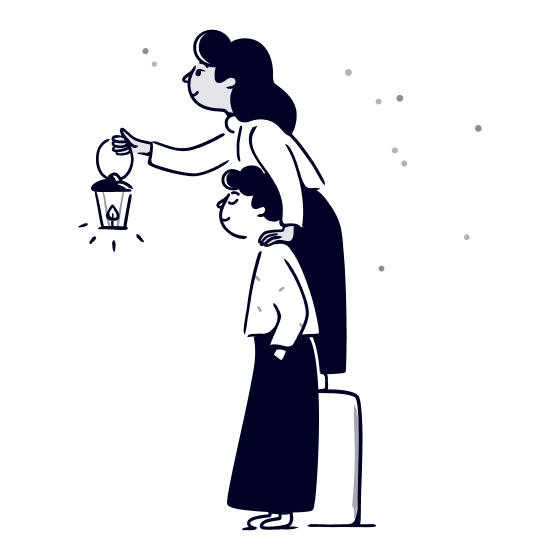
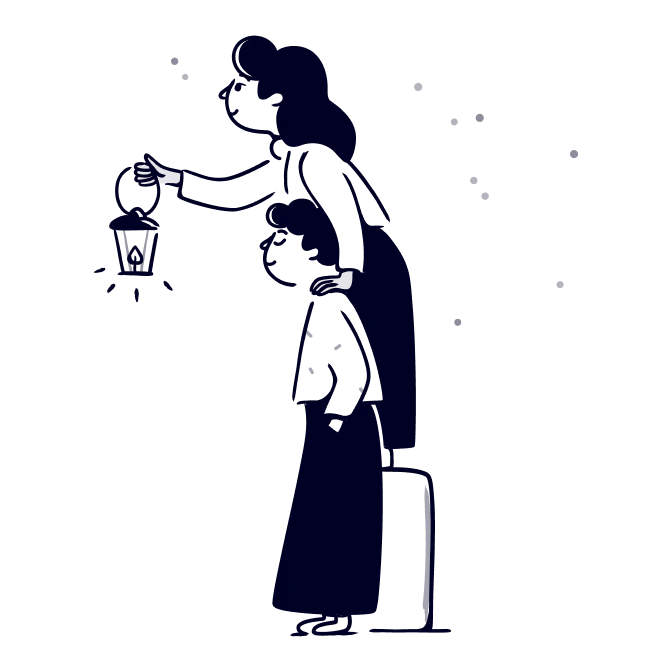
Larger hero illustration, idea section in two equal columns

diff --git a/index.html b/index.html
@@ -89,7 +89,7 @@ a:focus-visible,button:focus-visible{outline:2px solid currentColor;outline-offs
 .hero-in{position:relative;z-index:1;max-width:1440px;height:100%;margin:0 auto;padding:calc(var(--hdr) - 16px + clamp(24px,9vh,96px)) var(--m) 0}
 .hero h1{max-width:936px}
 .hero .lead{max-width:557px;margin-top:20px}
-.hero-ill{position:absolute;right:var(--m);bottom:calc(var(--strip) + 24px);width:clamp(180px,32vh,280px)}
+.hero-ill{position:absolute;right:var(--m);bottom:calc(var(--strip) + 24px);width:clamp(216px,38.4vh,336px)}
 /* Второй экран выезжает поверх первого: белая плашка расширяется до краёв */
 .reveal{position:relative;z-index:1;margin-top:calc(-1 * var(--strip));--x:40px;--rt:40px}
 .reveal-bg{position:absolute;inset:0;background:var(--white);clip-path:inset(0 var(--x) 0 var(--x) round var(--rt) var(--rt) 40px 40px);will-change:clip-path}
@@ -159,10 +159,11 @@ a:focus-visible,button:focus-visible{outline:2px solid currentColor;outline-offs
 /* 6. Идея */
 .idea{margin-top:160px;color:var(--white)}
 .idea-row{display:grid;grid-template-columns:repeat(12,minmax(0,1fr));gap:var(--g)}
-.idea-main{grid-column:span 8;display:flex;flex-direction:column;gap:40px;padding-right:32px}
-.idea-side{grid-column:span 4;align-self:end;padding-right:0}
-.principles{display:grid;grid-template-columns:repeat(4,minmax(0,1fr));gap:var(--g);margin-top:40px;color:var(--navy)}
-.pr{height:520px;background:var(--white);border-radius:var(--r);padding:20px 24px 40px;display:flex;flex-direction:column;justify-content:flex-start;gap:0}
+.idea-h{margin-bottom:40px}
+.idea-c{grid-column:span 6}
+.principles{display:grid;grid-template-columns:repeat(4,minmax(0,1fr));gap:var(--g);margin-top:60px;color:var(--navy)}
+.idea.stack .principles{margin-top:40px}
+.pr{height:520px;background:var(--white);border-radius:var(--r);padding:24px 24px 40px;display:flex;flex-direction:column;justify-content:flex-start;gap:0}
 .pr-b{display:flex;flex-direction:column;gap:24px}
 .pr img{width:100%;max-width:280px;height:auto;aspect-ratio:1;align-self:center}
 /* Принципы: карточки по одной выезжают снизу и встают в ряд 1-2-3-4, тексты блока остаются на экране */
@@ -198,7 +199,7 @@ a:focus-visible,button:focus-visible{outline:2px solid currentColor;outline-offs
 @media (max-width:1100px){
   .stats{grid-template-columns:repeat(2,minmax(0,1fr))}
   .principles{grid-template-columns:repeat(2,minmax(0,1fr))}
-  .idea-main,.idea-side{grid-column:1/-1;padding-right:0}
+  .idea-c{grid-column:1/-1}
   .pcard{height:auto;min-height:560px;padding:40px}
 }
 @media (max-width:767px){
@@ -218,7 +219,7 @@ a:focus-visible,button:focus-visible{outline:2px solid currentColor;outline-offs
   .burger{display:block}
   .hdr-r{gap:16px}
   :root{--strip:148px}
-  .hero-ill{width:clamp(130px,22vh,180px);right:-28px}
+  .hero-ill{width:clamp(156px,26.4vh,216px);right:-34px}
   .reveal{--x:12px}
   .strip{padding:16px 20px 20px}
   .strip .t-h5{font-size:20px;line-height:24px}
@@ -249,7 +250,8 @@ a:focus-visible,button:focus-visible{outline:2px solid currentColor;outline-offs
   .t-lead{font-size:24px;line-height:28px;letter-spacing:-.02em}
   .t-number{font-size:48px}
   .t-body{font-size:16px;line-height:22px;letter-spacing:-.01em}
-  .idea-main{gap:24px}
+  .idea-h{margin-bottom:24px}
+  .idea-c1{font-size:24px;line-height:28px;letter-spacing:-.02em;font-weight:500}
   .idea-row{row-gap:24px}
   .numbers,.idea{margin-top:96px}
   .stats,.principles{grid-template-columns:1fr}
@@ -329,7 +331,7 @@ a:focus-visible,button:focus-visible{outline:2px solid currentColor;outline-offs
   <div class="hero-in">
     <h1 class="t-display">У любопытства<br>нет возраста</h1>
     <p class="t-body lead">Объединяем знания и технологии,<br>чтобы каждый мог учиться, развиваться <br class="d">и открывать новое. С 1930 года</p>
-    <img class="hero-ill" id="heroIll" src="assets/looking-around.webp?v=16fb2a1e" width="280" height="280" alt="">
+    <img class="hero-ill" id="heroIll" src="assets/looking-around.webp?v=c92ee709" width="280" height="280" alt="">
   </div>
   <button class="scroll-cue" type="button" id="scrollCue" aria-label="Прокрутить вниз">
     <svg width="28" height="28" viewBox="0 0 28 28" fill="none" aria-hidden="true"><path d="M5 11L14 19L23 11" stroke="currentColor" stroke-width="2" stroke-linecap="round"/></svg>
@@ -394,12 +396,10 @@ a:focus-visible,button:focus-visible{outline:2px solid currentColor;outline-offs
 <!-- 6. Идея бренда -->
 <section class="idea" id="idea">
  <div class="idea-stage wrap" id="ideaStage">
+  <h2 class="t-tile idea-h">Ясный путь развития — <br>главная идея «Просвета»</h2>
   <div class="idea-row">
-    <div class="idea-main">
-      <h2 class="t-tile">Ясный путь развития — <br>главная идея «Просвета»</h2>
-      <p class="t-lead">Мы хотим, чтобы человек <br class="m">в любом возрасте мог найти свой путь в образовании: развивать способности, осваивать новое и заниматься тем, что ему действительно интересно.</p>
-    </div>
-    <p class="t-body idea-side">Образование нужно не только для того, <br class="m">чтобы выбрать профессию и расти в работе. Оно делает человека самостоятельнее, даёт уверенность в своих силах и свободу планировать будущее.</p>
+    <p class="t-body idea-c idea-c1">Мы хотим, чтобы у людей любого возраста было больше возможностей находить свой путь в образовании, развивать способности, осваивать новые направления и заниматься тем, что им действительно интересно.</p>
+    <p class="t-body idea-c">Ведь образование помогает не только выбирать профессию и развиваться в работе. Оно даёт больше самостоятельности, уверенности в собственных возможностях и свободы строить планы на будущее.</p>
   </div>
   <div class="principles" id="principles"></div>
  </div>
